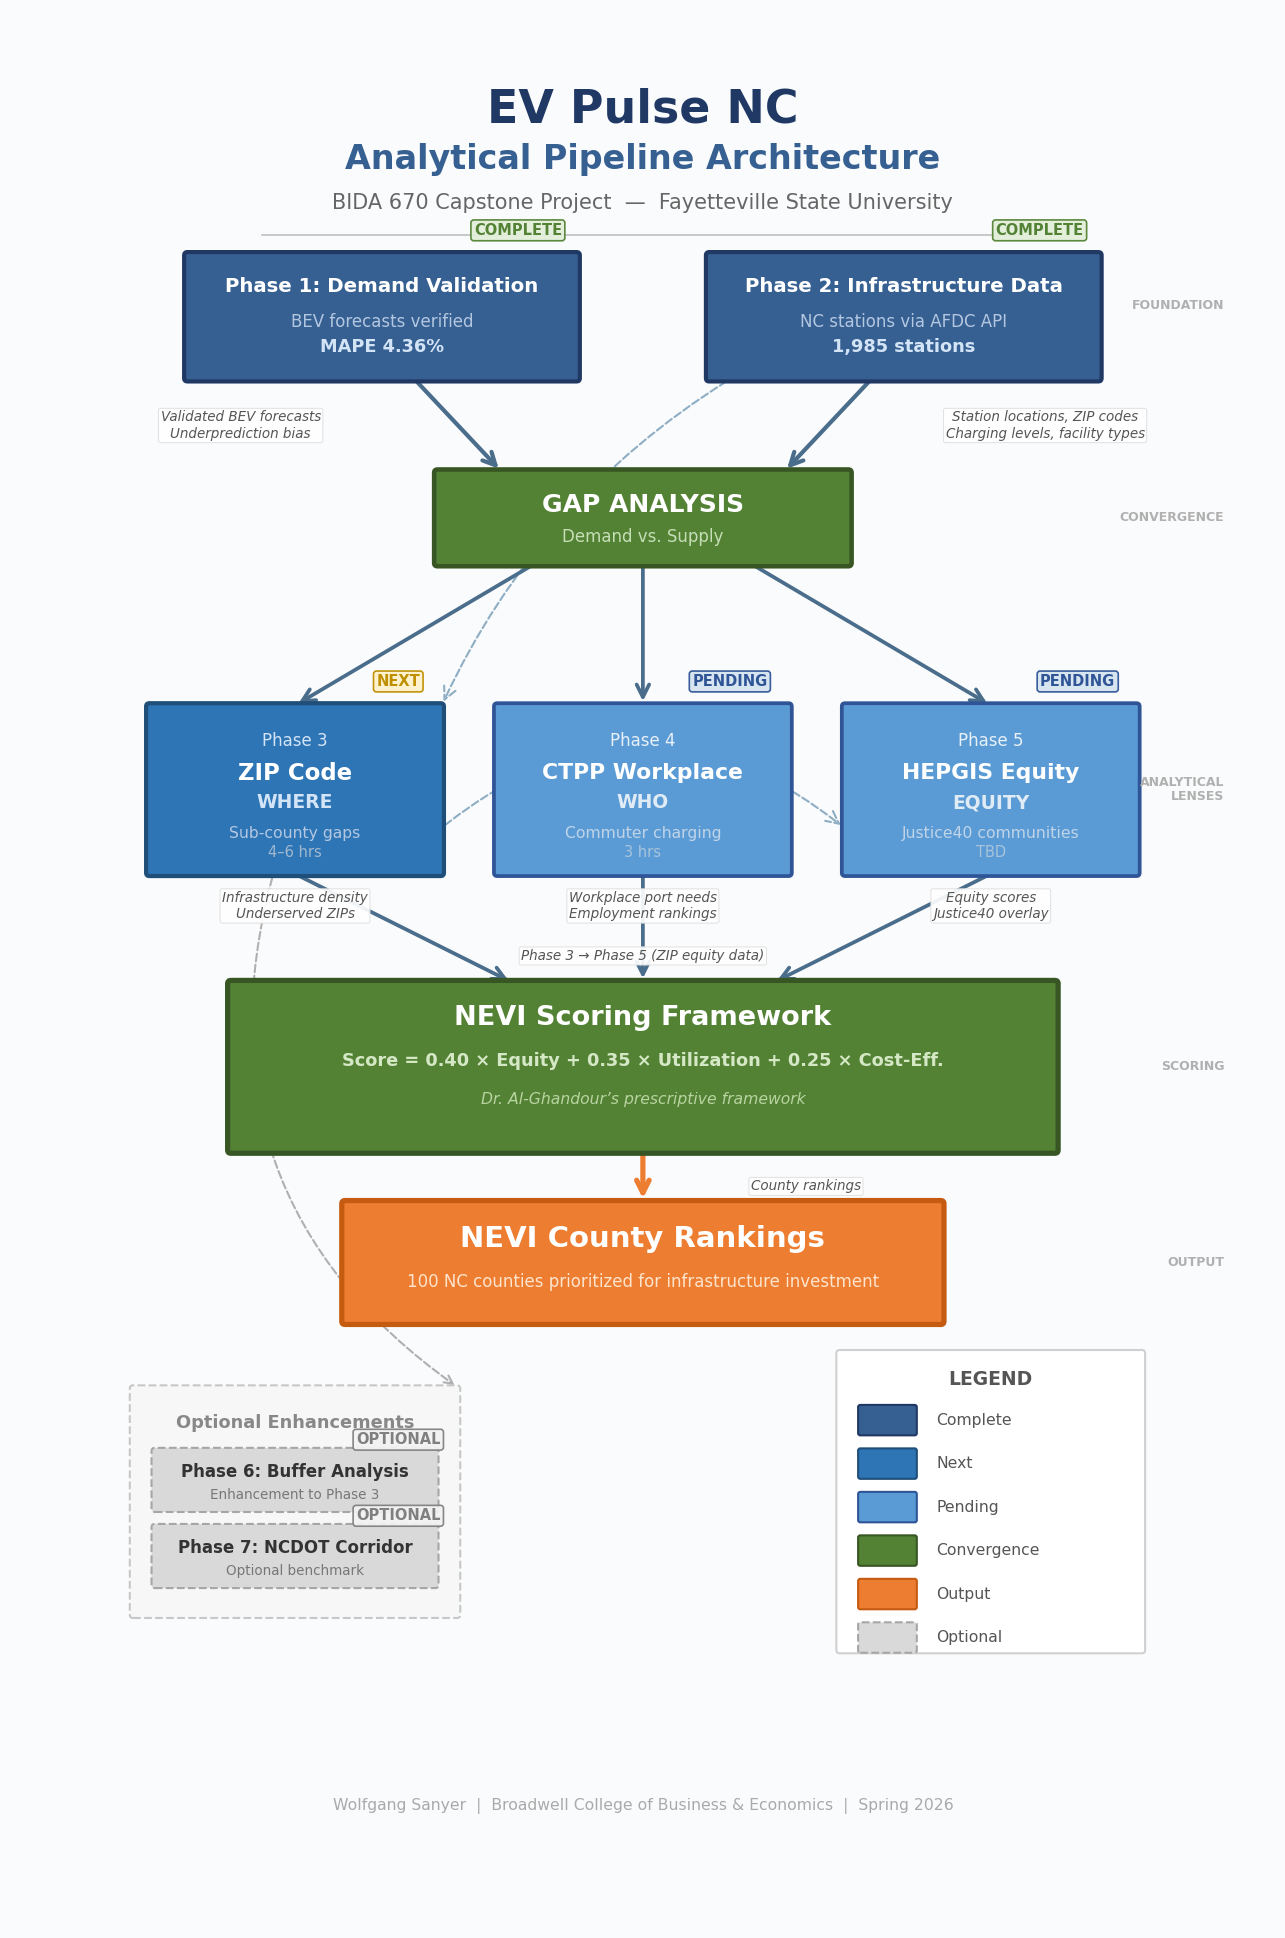
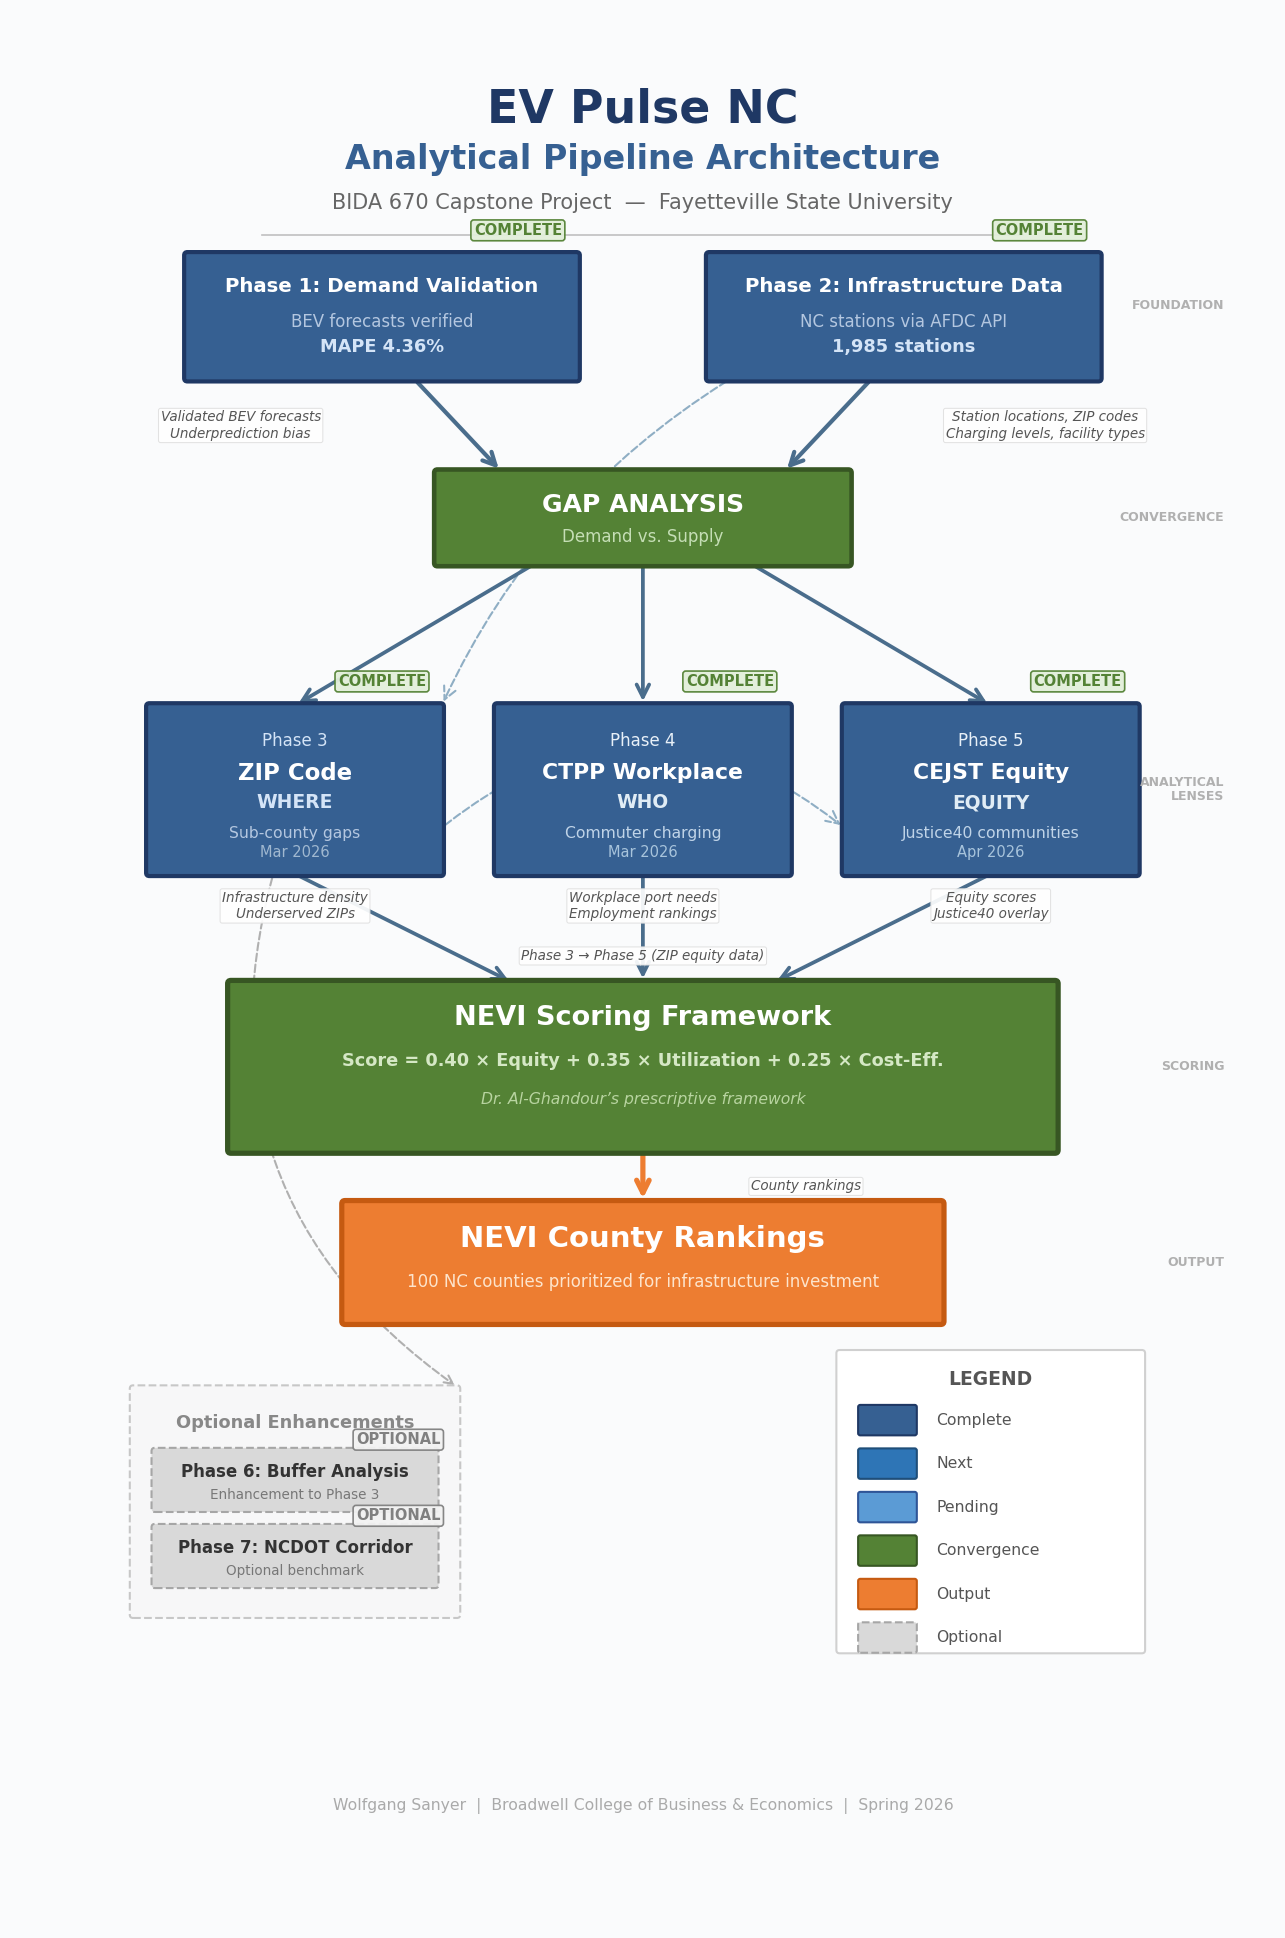
[EVPULSE][DOCS] Update scoring skeleton and pipeline diagram for CEJST equity
Update scoring_framework_skeleton.py string labels and generate_pipeline_diagram.py
to reflect that Phase 5 was implemented with CEJST tract-level Justice40 data
rather than HEPGIS corridors. Mark all merged phases complete in the rendered
pipeline diagram. Regenerate analytical-pipeline.png and the thumbnail.

Changed region(s): [[0.6537, 0.3406, 0.9027, 0.4644], [0.3735, 0.3406, 0.6226, 0.4644], [0.0934, 0.3406, 0.3424, 0.4644]]

diff --git a/scripts/generate_pipeline_diagram.py b/scripts/generate_pipeline_diagram.py
@@ -226,9 +226,9 @@ def create_pipeline_diagram():
     draw_arrow(ax, x_gap + 1.0, y_gap - gap_h / 2, x_lens[2], y_lenses + lens_box_h / 2,
                linewidth=1.8, color="#4A6D8C")
 
-    # Phase 3 — ZIP Code (WHERE) — NEXT
-    draw_rounded_box(ax, x_lens[0], y_lenses, lens_w, lens_box_h, C_NEXT,
-                     C_BORDER_NEXT, linewidth=2)
+    # Phase 3 — ZIP Code (WHERE) — COMPLETE
+    draw_rounded_box(ax, x_lens[0], y_lenses, lens_w, lens_box_h, C_COMPLETE,
+                     C_BORDER_COMPLETE, linewidth=2)
     draw_text(ax, x_lens[0], y_lenses + 0.45, "Phase 3", fontsize=8,
               color="#D4E4F7")
     draw_text(ax, x_lens[0], y_lenses + 0.15, "ZIP Code", fontsize=11,
@@ -237,13 +237,13 @@ def create_pipeline_diagram():
               color="#D4E4F7", weight="semibold")
     draw_text(ax, x_lens[0], y_lenses - 0.40, "Sub-county gaps", fontsize=7.5,
               color="#B4C7E0")
-    draw_text(ax, x_lens[0], y_lenses - 0.58, "4\u20136 hrs", fontsize=7,
+    draw_text(ax, x_lens[0], y_lenses - 0.58, "Mar 2026", fontsize=7,
               color="#A0B8D0")
-    draw_status_badge(ax, x_lens[0] + lens_w / 2 - 0.4, y_lenses + lens_box_h / 2 + 0.22, "NEXT")
+    draw_status_badge(ax, x_lens[0] + lens_w / 2 - 0.55, y_lenses + lens_box_h / 2 + 0.22, "COMPLETE")
 
-    # Phase 4 — CTPP Workplace (WHO) — PENDING
-    draw_rounded_box(ax, x_lens[1], y_lenses, lens_w, lens_box_h, C_PENDING,
-                     C_BORDER_PENDING, linewidth=1.8)
+    # Phase 4 — CTPP Workplace (WHO) — COMPLETE
+    draw_rounded_box(ax, x_lens[1], y_lenses, lens_w, lens_box_h, C_COMPLETE,
+                     C_BORDER_COMPLETE, linewidth=2)
     draw_text(ax, x_lens[1], y_lenses + 0.45, "Phase 4", fontsize=8,
               color="#E8F0F8")
     draw_text(ax, x_lens[1], y_lenses + 0.15, "CTPP Workplace", fontsize=10.5,
@@ -252,24 +252,24 @@ def create_pipeline_diagram():
               color="#E0ECF5", weight="semibold")
     draw_text(ax, x_lens[1], y_lenses - 0.40, "Commuter charging", fontsize=7.5,
               color="#C0D4E8")
-    draw_text(ax, x_lens[1], y_lenses - 0.58, "3 hrs", fontsize=7,
+    draw_text(ax, x_lens[1], y_lenses - 0.58, "Mar 2026", fontsize=7,
               color="#A8C4DC")
-    draw_status_badge(ax, x_lens[1] + lens_w / 2 - 0.55, y_lenses + lens_box_h / 2 + 0.22, "PENDING")
+    draw_status_badge(ax, x_lens[1] + lens_w / 2 - 0.55, y_lenses + lens_box_h / 2 + 0.22, "COMPLETE")
 
-    # Phase 5 — HEPGIS Equity (EQUITY) — PENDING
-    draw_rounded_box(ax, x_lens[2], y_lenses, lens_w, lens_box_h, C_PENDING,
-                     C_BORDER_PENDING, linewidth=1.8)
+    # Phase 5 — CEJST Equity (EQUITY) — COMPLETE
+    draw_rounded_box(ax, x_lens[2], y_lenses, lens_w, lens_box_h, C_COMPLETE,
+                     C_BORDER_COMPLETE, linewidth=2)
     draw_text(ax, x_lens[2], y_lenses + 0.45, "Phase 5", fontsize=8,
               color="#E8F0F8")
-    draw_text(ax, x_lens[2], y_lenses + 0.15, "HEPGIS Equity", fontsize=10.5,
+    draw_text(ax, x_lens[2], y_lenses + 0.15, "CEJST Equity", fontsize=10.5,
               color=C_TEXT_LIGHT, weight="bold")
     draw_text(ax, x_lens[2], y_lenses - 0.12, "EQUITY", fontsize=9,
               color="#E0ECF5", weight="semibold")
     draw_text(ax, x_lens[2], y_lenses - 0.40, "Justice40 communities", fontsize=7.5,
               color="#C0D4E8")
-    draw_text(ax, x_lens[2], y_lenses - 0.58, "TBD", fontsize=7,
+    draw_text(ax, x_lens[2], y_lenses - 0.58, "Apr 2026", fontsize=7,
               color="#A8C4DC")
-    draw_status_badge(ax, x_lens[2] + lens_w / 2 - 0.55, y_lenses + lens_box_h / 2 + 0.22, "PENDING")
+    draw_status_badge(ax, x_lens[2] + lens_w / 2 - 0.55, y_lenses + lens_box_h / 2 + 0.22, "COMPLETE")
 
     # ════════════════════════════════════════════════════════════════════════
     # Cross-feed arrows (secondary data flows)

diff --git a/code/python/analysis/scoring_framework_skeleton.py b/code/python/analysis/scoring_framework_skeleton.py
@@ -107,11 +107,11 @@ NAN_COLUMN_DOCS: dict[str, tuple[str, str]] = {
         "requires min-max scaling across full state",
     ),
     "equity_justice40_pct": (
-        "Phase 5 (HEPGIS)",
+        "Phase 5 (CEJST)",
         "Percentage of census tracts designated as Justice40 disadvantaged communities",
     ),
     "equity_score": (
-        "Phase 3 + Phase 5 (HEPGIS)",
+        "Phase 3 + Phase 5 (CEJST)",
         "Cannot compute without Justice40 data; "
         "Gini and zero-station metrics alone are insufficient",
     ),
@@ -343,7 +343,7 @@ def build_skeleton(
 
     skeleton["equity_justice40_pct"] = np.nan
     skeleton["equity_score"] = np.nan
-    skeleton["equity_source"] = "Phase 3 + Phase 5 (HEPGIS)"
+    skeleton["equity_source"] = "Phase 3 + Phase 5 (CEJST)"
 
     # --- Composite ---
     skeleton["nevi_priority_score"] = np.nan
@@ -495,7 +495,7 @@ def main() -> None:
         f"{WEIGHT_COST_EFFECTIVENESS:.2f} x Cost_Effectiveness_Score"
     )
     print(
-        "\n  Status: BLOCKED -- awaiting Phase 5 (HEPGIS) data\n"
+        "\n  Status: Superseded by scoring_framework_final.py (Phase 5 CEJST implementation)\n"
     )
 
 